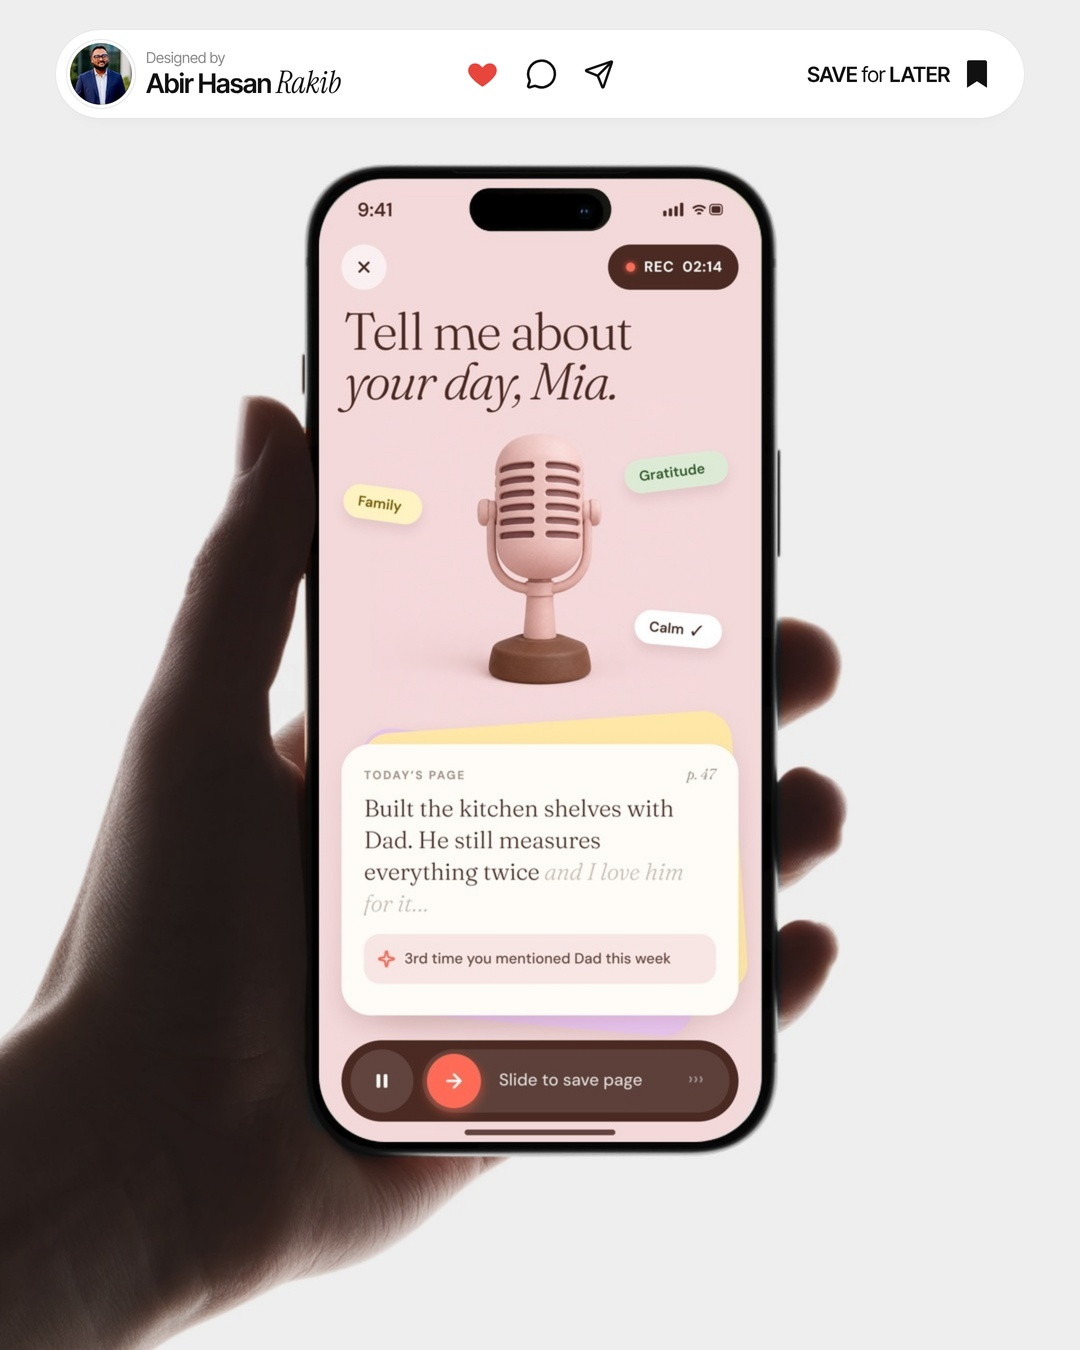
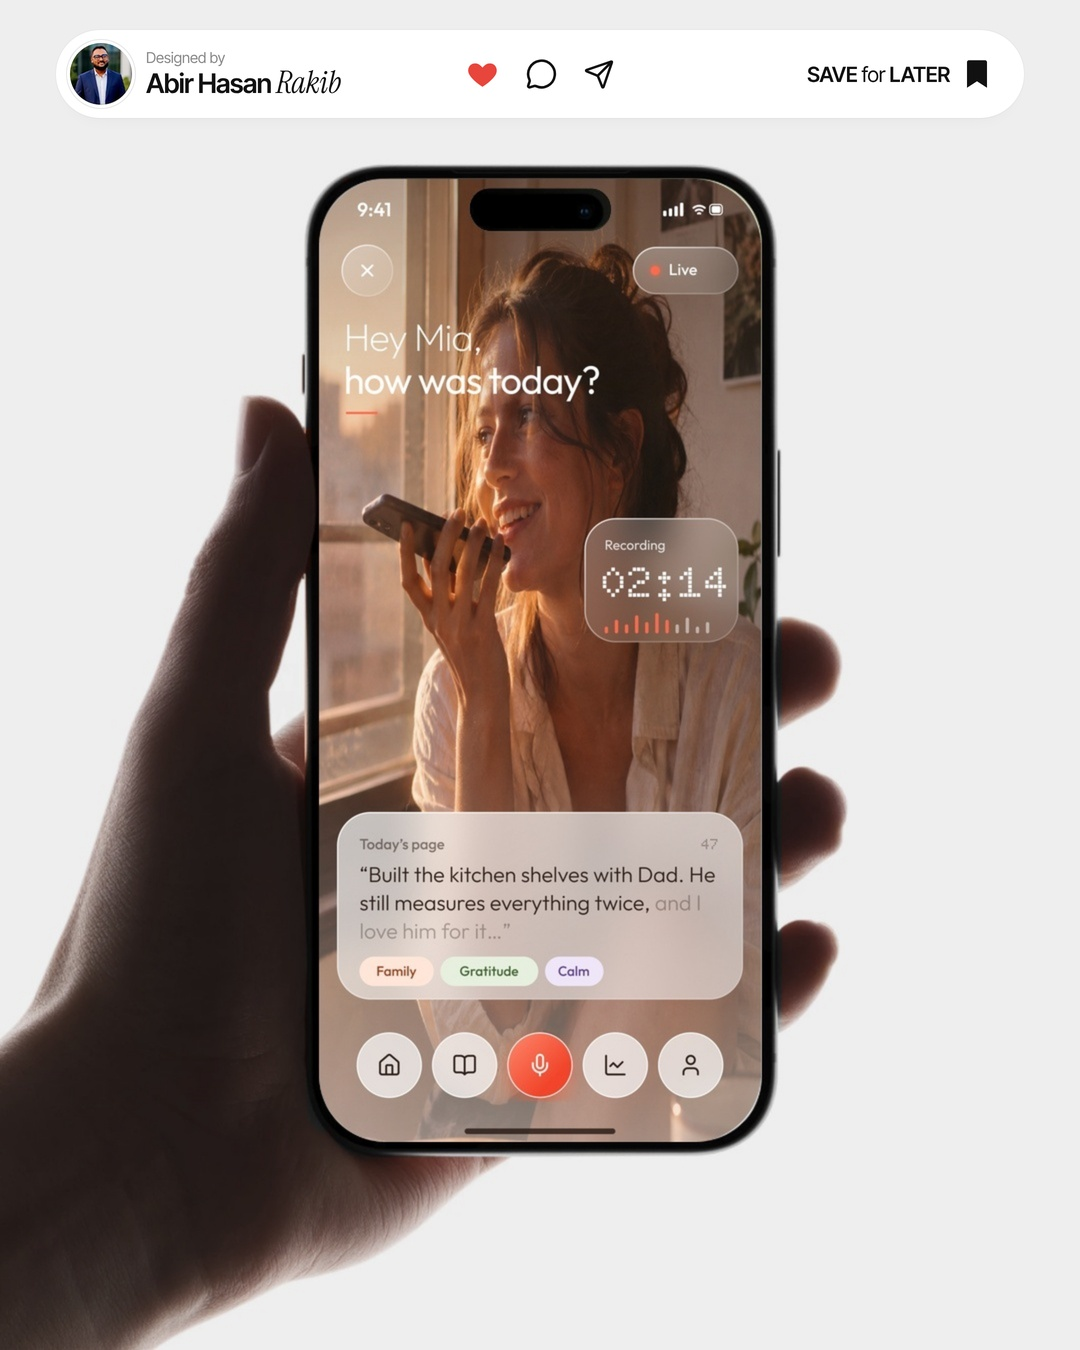
Fourth pass on app posts: real photography, photo-led glass layouts (Hush, Daybook AI, Haven)
Claude-Session: https://claude.ai/code/session_01Rx7d117qpa9L3825gPP6m3

Changed region(s): [[0.275, 0.1244, 0.7028, 0.8711]]

diff --git a/designs/2026-11-24-pm-daybook-voice-journal-app/screen.html b/designs/2026-11-24-pm-daybook-voice-journal-app/screen.html
@@ -2,13 +2,13 @@
 <html><head><meta charset="utf-8">
 <!-- Designed in Figma (file IVWMA2qO8U4XdLphCuds1y), exported at 3x. -->
 <meta name="app-name" content="Daybook AI">
-<meta name="app-desc" content="A voice journal where you **talk to a little ceramic mic** and the AI turns it into **a page in your diary**.">
-<meta name="fonts" content="Fraunces|A soft, bookish serif that makes each entry feel like a page you wrote, not a form you filled.">
-<meta name="palette" content="#F4D9DB:Washed pink|#4A2A22:Cocoa|#FFFBF6:Paper|#FFE7A8:Butter page|#E8C6F0:Lilac page|#FF6B57:Record coral">
+<meta name="app-desc" content="A voice journal where you **just talk at golden hour**, and the AI writes **today’s page** with your moods tagged.">
+<meta name="fonts" content="Outfit|Light geometric type for the greeting, paired with a dot-matrix timer that feels like a recorder.">
+<meta name="palette" content="#2B1D17:Espresso|#FF6A4D:Record coral|#F6E2D6:Golden hour|#FFFFFF:Glass white|#FFE6D9:Peach tag|#E7F0DE:Sage tag">
 <link rel="stylesheet" href="../../assets/fonts.css">
 <style>*{margin:0;padding:0}html,body{width:393px;height:852px;overflow:hidden;background:#fff}
 .screen{position:absolute;inset:0;width:393px;height:852px}.screen img{width:393px;height:852px;display:block}
-[data-nav]{position:absolute;left:20px;top:762px;width:353px;height:72px}</style></head>
+[data-nav]{position:absolute;left:33.5px;top:752px;width:326px;height:64px}</style></head>
 <body><div class="screen"><img src="figma.png" alt=""></div>
 <img data-nav src="nav.png" alt="" style="visibility:hidden">
 </body></html>

diff --git a/designs/2026-11-21-pm-hush-sleep-app/screen.html b/designs/2026-11-21-pm-hush-sleep-app/screen.html
@@ -2,13 +2,13 @@
 <html><head><meta charset="utf-8">
 <!-- Designed in Figma (file IVWMA2qO8U4XdLphCuds1y), exported at 3x. -->
 <meta name="app-name" content="Hush">
-<meta name="app-desc" content="A sleep app built around **one glass moon** and a **sleep tide** that shows how deep you slept, hour by hour.">
-<meta name="fonts" content="Plus Jakarta Sans|Soft, open shapes that keep a 72px extra-light number calm instead of loud.">
-<meta name="palette" content="#1D2148:Midnight ink|#E7E9F9:Glacier lavender|#BFD6FF:Moon blue|#A88BFF:REM violet|#3E46C8:Deep sleep|#FFFFFF:Glass white">
+<meta name="app-desc" content="A sleep app with **a real photo of rest** behind it, a **thin arc sleep score** and one frosted sheet for last night.">
+<meta name="fonts" content="Urbanist|Thin, airy numbers over a real photo, like a premium wearable app.">
+<meta name="palette" content="#232A3D:Night ink|#C9D6F2:Glacier blue|#E6E3F2:Misty lavender|#FFFFFF:Glass white|#F2D9CC:Skin peach|#8E97B8:Dusk grey">
 <link rel="stylesheet" href="../../assets/fonts.css">
 <style>*{margin:0;padding:0}html,body{width:393px;height:852px;overflow:hidden;background:#fff}
 .screen{position:absolute;inset:0;width:393px;height:852px}.screen img{width:393px;height:852px;display:block}
-[data-nav]{position:absolute;left:46.5px;top:766px;width:300px;height:68px}</style></head>
+[data-nav]{position:absolute;left:32px;top:730px;width:329px;height:68px}</style></head>
 <body><div class="screen"><img src="figma.png" alt=""></div>
 <img data-nav src="nav.png" alt="" style="visibility:hidden">
 </body></html>

diff --git a/designs/2026-11-26-am-haven-smart-home-app/screen.html b/designs/2026-11-26-am-haven-smart-home-app/screen.html
@@ -2,13 +2,13 @@
 <html><head><meta charset="utf-8">
 <!-- Designed in Figma (file IVWMA2qO8U4XdLphCuds1y), exported at 3x. -->
 <meta name="app-name" content="Haven">
-<meta name="app-desc" content="A smart home app with **soft tactile sliders** you can almost feel, and the hub sitting on stone like **a piece of decor**.">
-<meta name="fonts" content="Onest|Neutral, precise shapes that sit well next to stone, fabric and a single electric-blue glow.">
-<meta name="palette" content="#EAE0D1:Oatmeal|#2A231C:Espresso|#2F6BFF:Electric blue|#F4EEE5:Linen|#E3D7C5:Sand|#6F98FF:Glow blue">
+<meta name="app-desc" content="A smart home app where you **tap the real lamp in the photo** and set the whole evening with **one slide**.">
+<meta name="fonts" content="Geist|Calm, precise letterforms that let a 40px extra-light temperature lead.">
+<meta name="palette" content="#211A14:Walnut ink|#F2A548:Lamp amber|#FFFFFF:Frost white|#E9DCC9:Linen|#C9A27A:Oak|#8A7562:Taupe">
 <link rel="stylesheet" href="../../assets/fonts.css">
 <style>*{margin:0;padding:0}html,body{width:393px;height:852px;overflow:hidden;background:#fff}
 .screen{position:absolute;inset:0;width:393px;height:852px}.screen img{width:393px;height:852px;display:block}
-[data-nav]{position:absolute;left:20px;top:766px;width:353px;height:66px}</style></head>
+[data-nav]{position:absolute;left:40px;top:702px;width:313px;height:68px}</style></head>
 <body><div class="screen"><img src="figma.png" alt=""></div>
 <img data-nav src="nav.png" alt="" style="visibility:hidden">
 </body></html>
